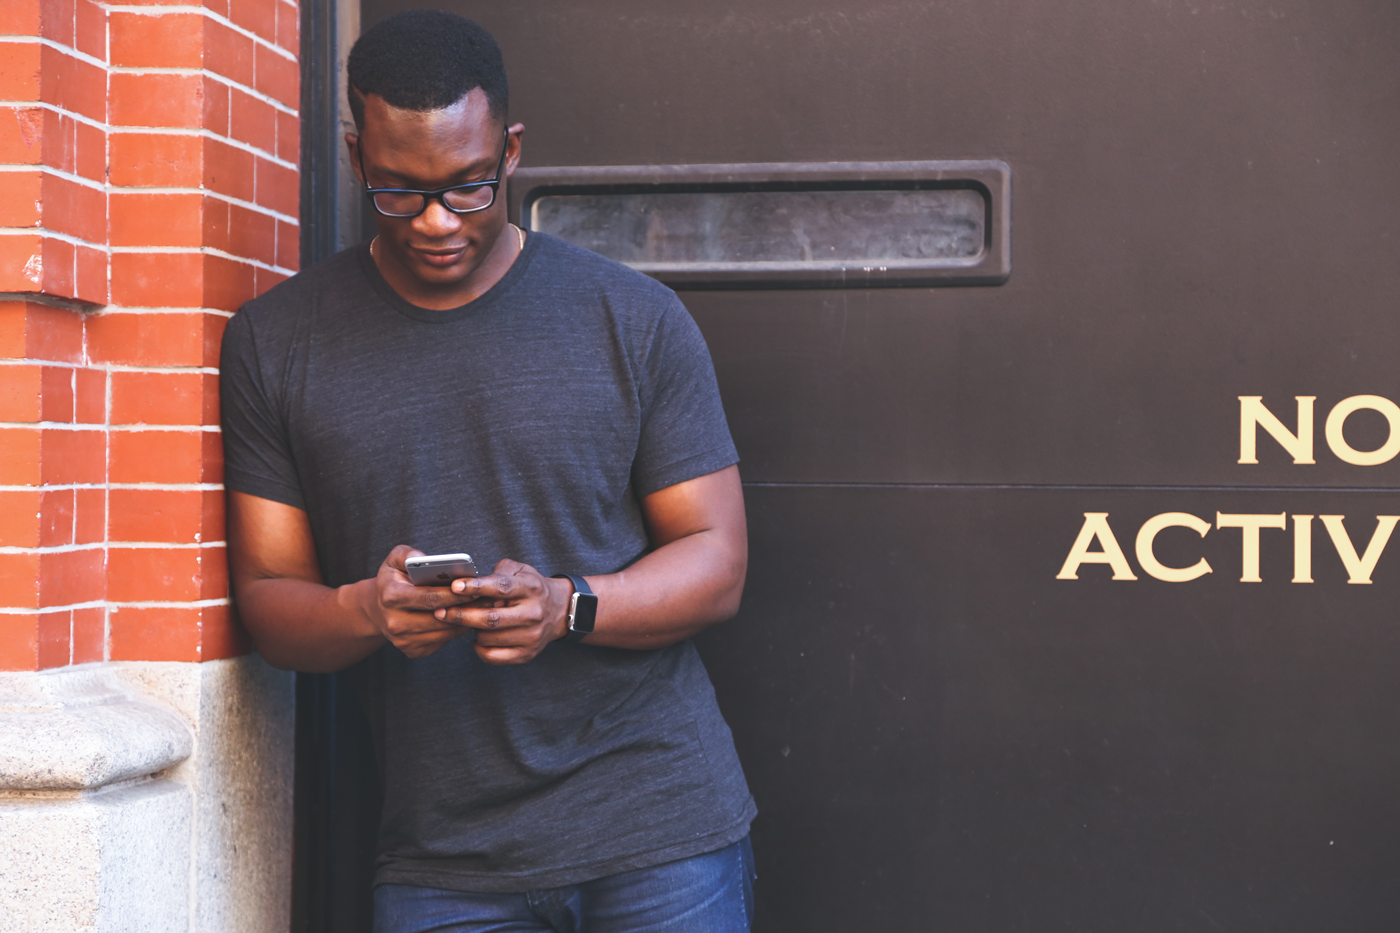
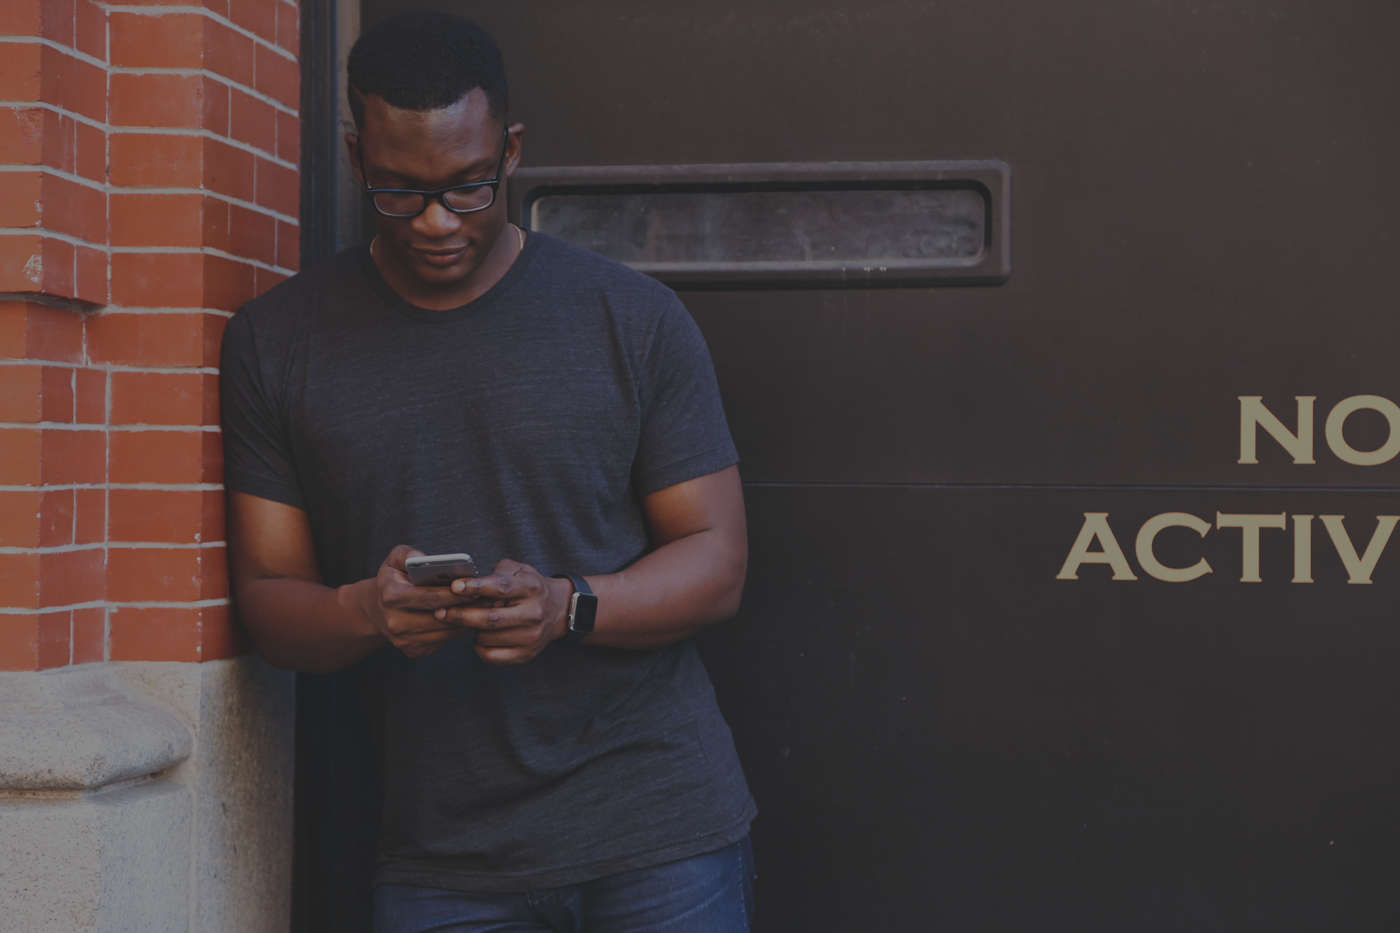
Added overlay to new replacement images, removed btn:focus outline, removed strong from Meet Team button, added hover state color for footer social buttons

diff --git a/css/style.css b/css/style.css
@@ -94,7 +94,7 @@ p {
 
 /* hero */
 .hero {
-	background-image: linear-gradient(rgba(28, 28, 28, 0.5), rgba(28, 28, 28, 0.5));
+	/*background-image: linear-gradient(rgba(28, 28, 28, 0.5), rgba(28, 28, 28, 0.5));*/
 }
 
 .hero-body {
@@ -117,6 +117,11 @@ p {
 	padding-top: 18px;
 	box-shadow: 0px 0px 20px #231f20;
 }
+
+.btn:focus {
+	outline: inherit;
+}
+
 /* navbar */
 .navbar-custom {
     background: rgba(28,28,28,0.5);
@@ -417,6 +422,11 @@ tr:last-child {
     border: 2px solid #a2a2a6;
     border-radius: 50%;
     color: #a2a2a6;
+}
+
+.social-networks > li > a:hover {
+    color: #32e147;
+    border-color: #32e147;
 }
 
 .social-block .title {

diff --git a/index.html b/index.html
@@ -149,7 +149,7 @@
 			</div>
 		</div>
 		<div class="text-center">
-			<a href="#0" id="grad" class="btn btn-primary btn-lg"><strong>MEET THE TEAM</strong></a>
+			<a href="#0" id="grad" class="btn btn-primary btn-lg">MEET THE TEAM</a>
 		</div>
 	</div>
 </div>
